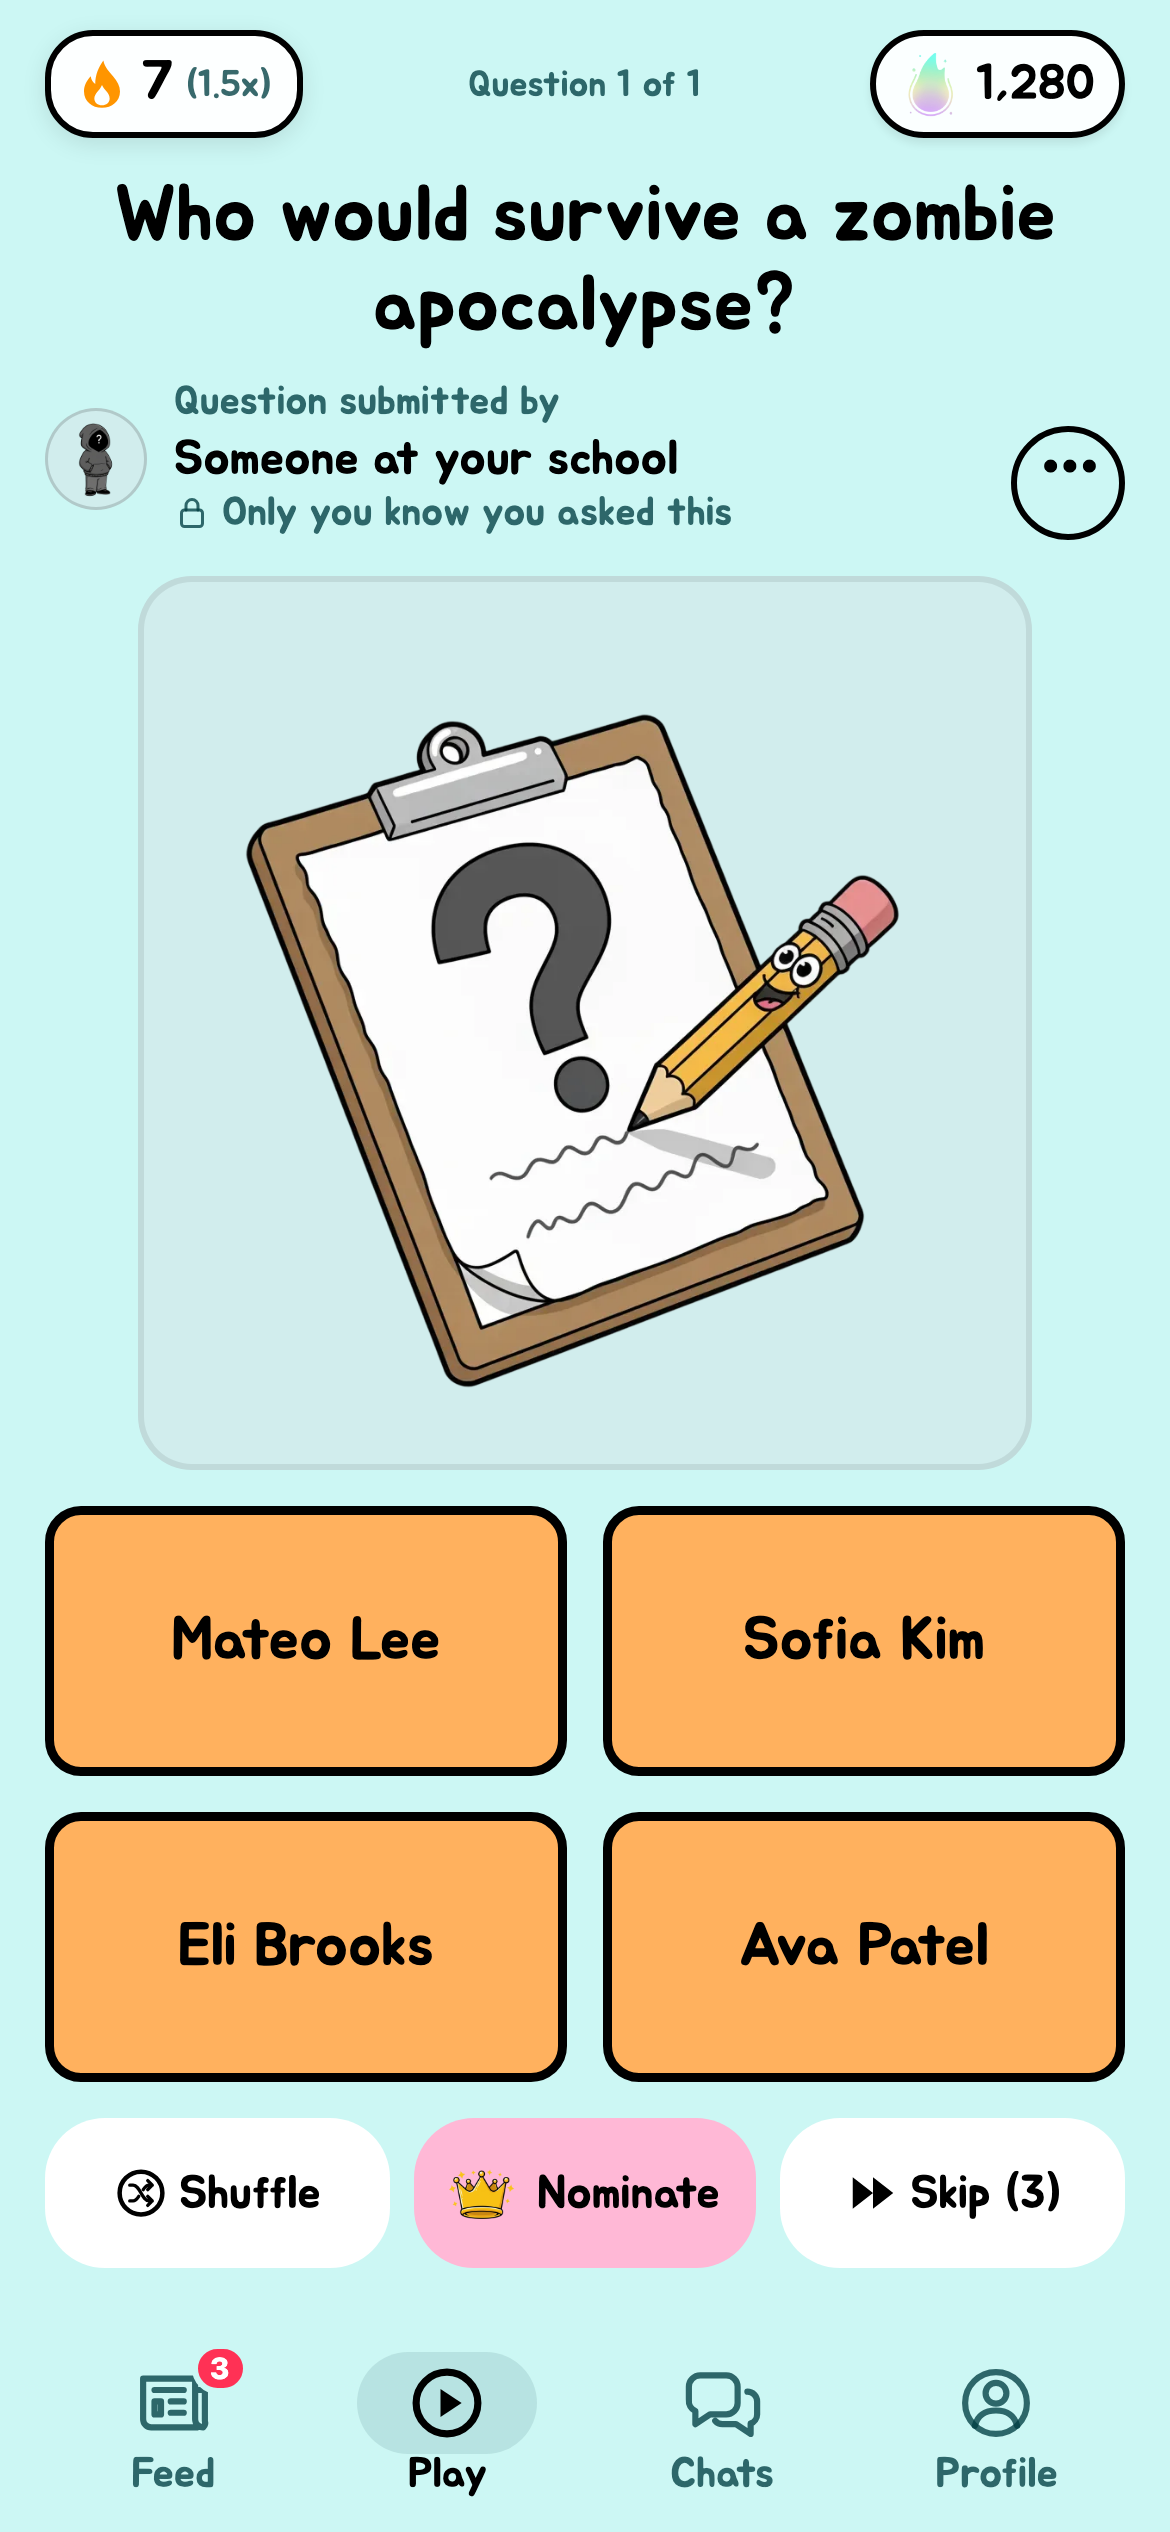
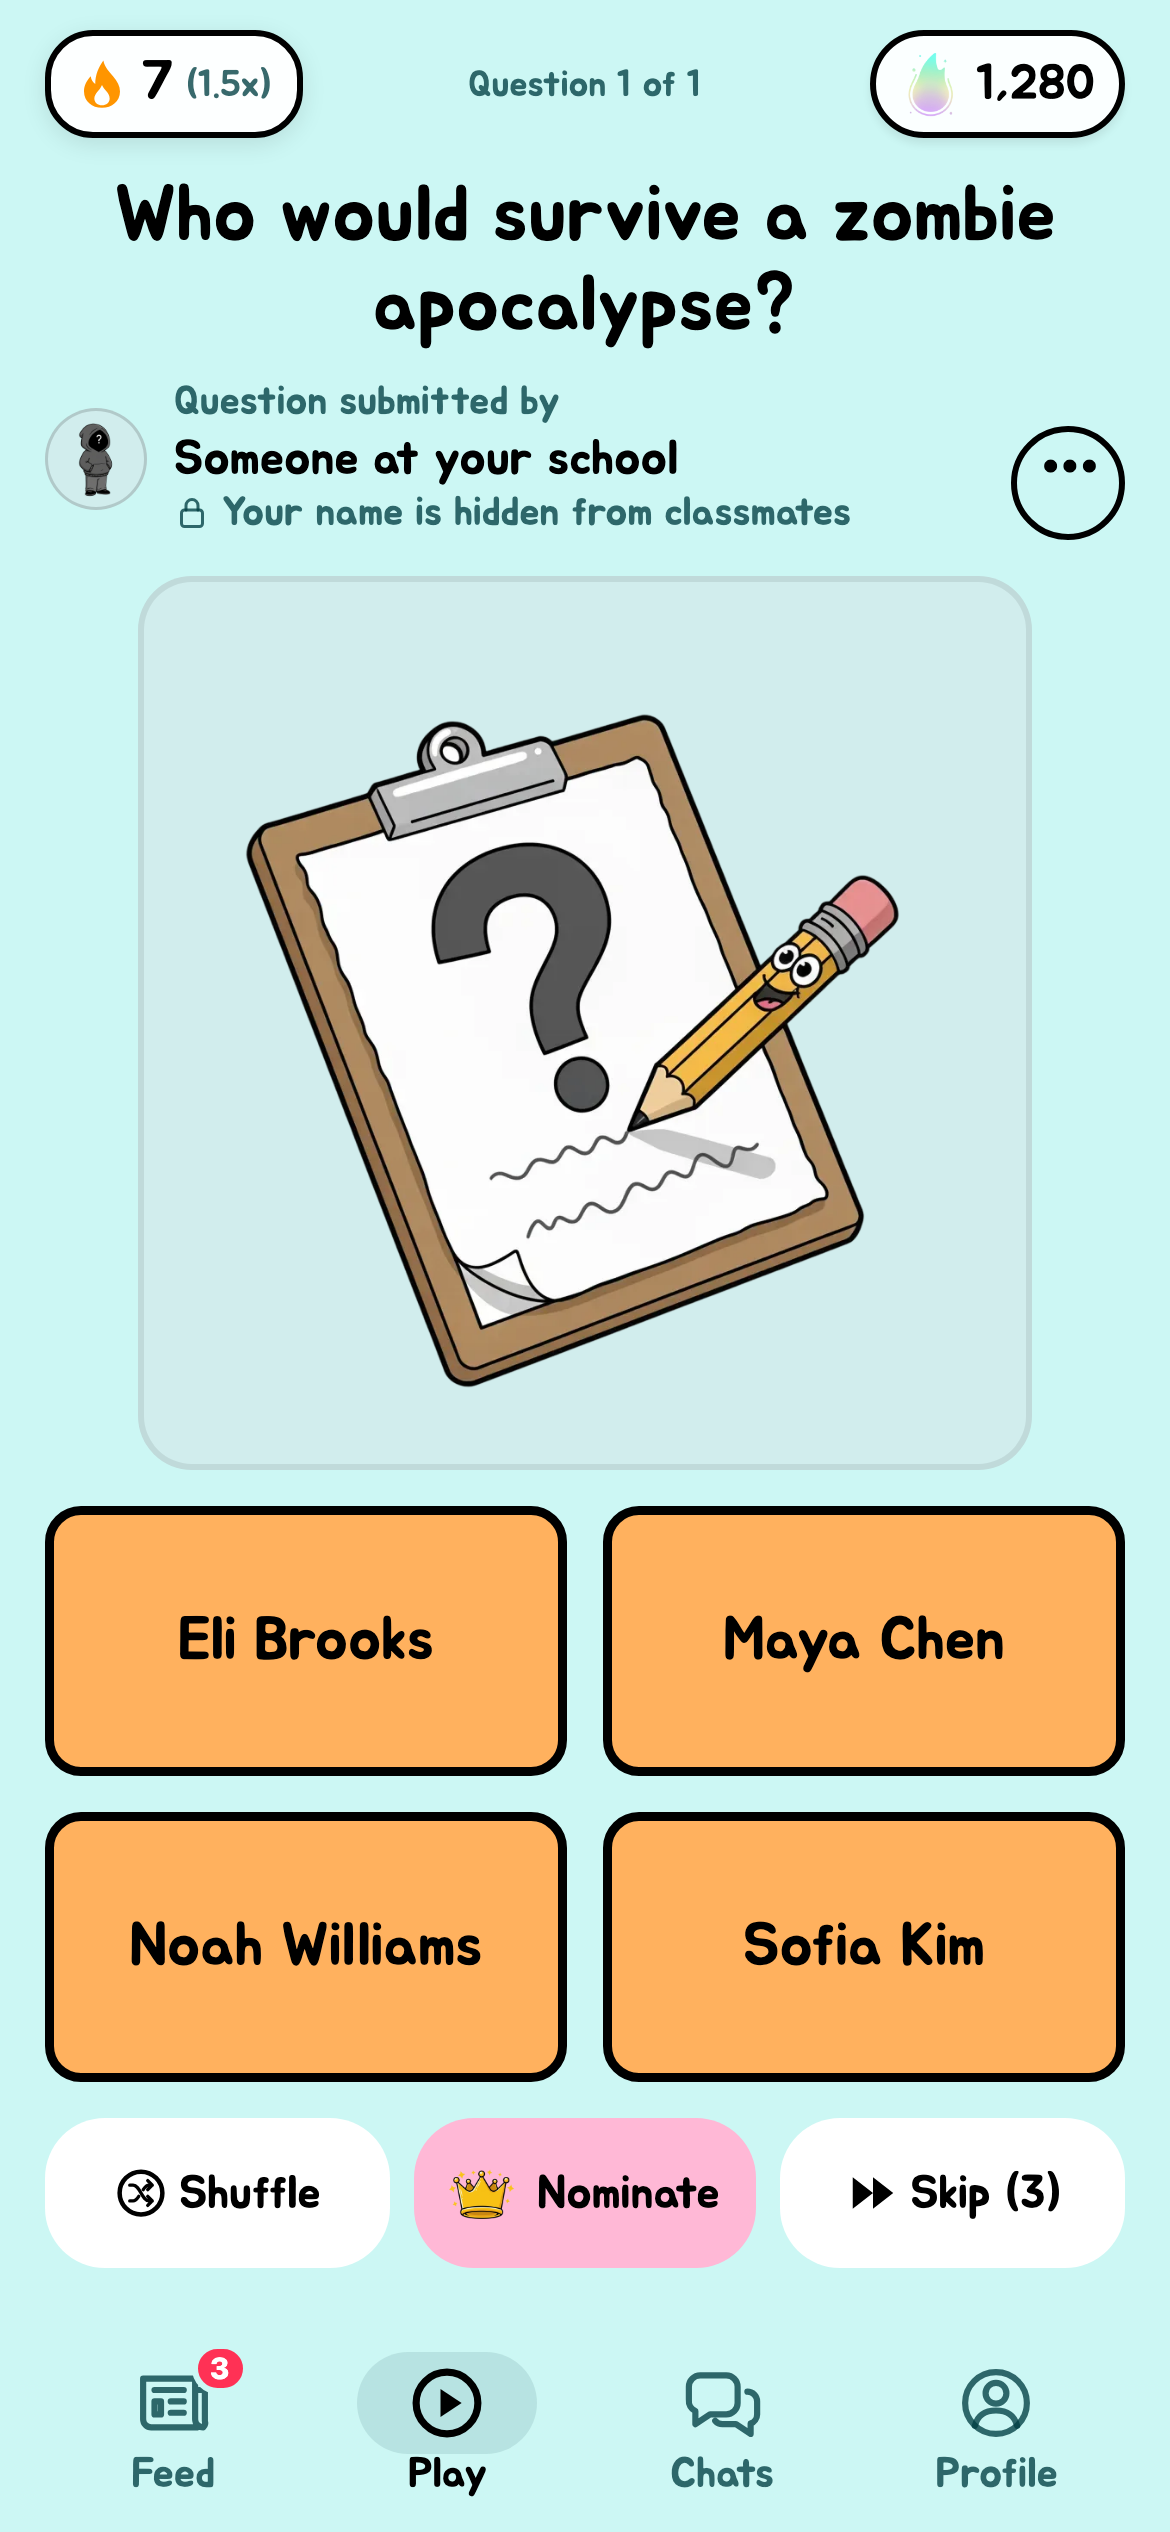
web-v115: author hint reads "Your name is hidden from classmates"
The owner's copy: God Mode reveals mean "Only you know you asked this"
wasn't strictly true. Tests and screenshots updated; dist rebuilt (the
never-deployed asset folder from the first v115 build is dropped).

diff --git a/tests/anonymous-attribution.spec.js b/tests/anonymous-attribution.spec.js
@@ -41,7 +41,7 @@ test('Play: the author of an anonymous question sees it anonymously, with the pr
     await expect(attribution).toContainText('Someone at your school');
     await expect(attribution).not.toContainText('Jamie Rivera');
     await expect(attribution.locator('img')).toHaveAttribute('src', /anonymous\.webp/);
-    await expect(attribution.locator('[data-submitter-author-hint]')).toHaveText('Only you know you asked this');
+    await expect(attribution.locator('[data-submitter-author-hint]')).toHaveText('Your name is hidden from classmates');
     await expect(attribution.getByRole('menuitem', { name: 'Block submitter', includeHidden: true })).toHaveCount(0);
 });
 
@@ -68,7 +68,7 @@ test('Poll detail: the author of an anonymous question sees it anonymously, with
     await expect(author).toContainText('Someone at your school');
     await expect(author).not.toContainText('Jamie Rivera');
     await expect(author.locator('img')).toHaveAttribute('src', /anonymous\.webp/);
-    await expect(author.locator('[data-submitter-author-hint]')).toHaveText('Only you know you asked this');
+    await expect(author.locator('[data-submitter-author-hint]')).toHaveText('Your name is hidden from classmates');
     await expect(page.locator('#blockFeedSubmitterButton')).toBeHidden();
 });
 

diff --git a/app/question-attribution.js b/app/question-attribution.js
@@ -7,7 +7,7 @@
 // viewer the name, and named questions are unchanged.
 
 export const ANONYMOUS_SUBMITTER_NAME = "Someone at your school";
-export const AUTHOR_ANONYMITY_HINT = "Only you know you asked this";
+export const AUTHOR_ANONYMITY_HINT = "Your name is hidden from classmates";
 
 /**
  * @returns {{ kind: "none" } | { kind: "named", name: string } | { kind: "anonymous", viewerIsAuthor: boolean }}
